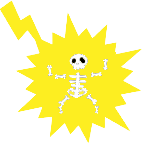
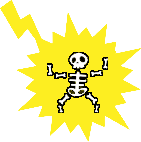
improvement on enemy damage image

diff --git a/public/scripts/CombatScene.js b/public/scripts/CombatScene.js
@@ -254,7 +254,7 @@ class CombatScene extends Phaser.Scene {
         },
         add: true,
       })
-      .setDepth(1)
+      .setDepth(401)
       .setAlpha(0);
     this.tweens.add({
       targets: this.enemy_hurt,
